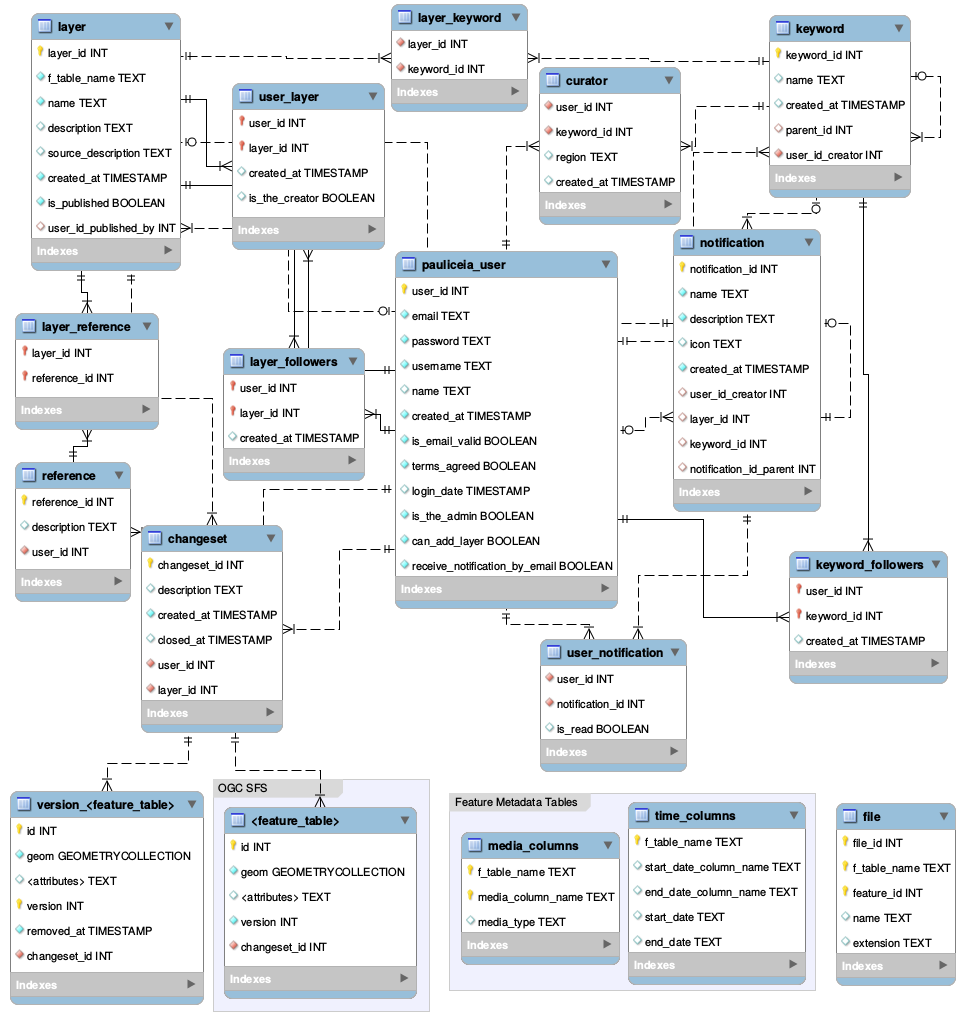
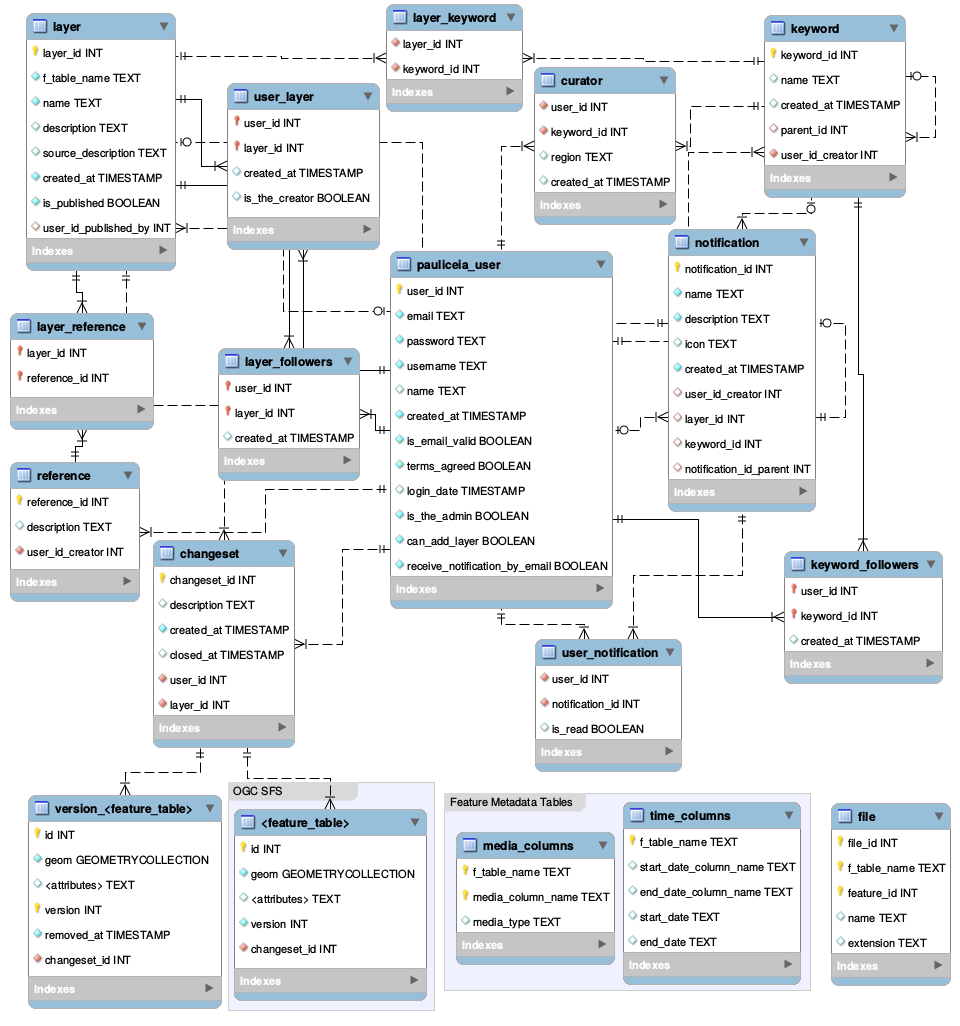
Refactored reference user_id to user_id_creator

diff --git a/tests/test_api_reference.py b/tests/test_api_reference.py
@@ -23,39 +23,39 @@ class TestAPIReference(TestCase):
             'features': [
                 {
                     'type': 'Reference',
-                    'properties': {'user_id': 1001, 'reference_id': 1001, 'description': '@Misc{jorge2017book1,\nauthor = {Jorge},\ntitle = {Book1},\nhowpublished = {\\url{http://www.link.org/}},\nnote = {Accessed on 01/01/2017},\nyear={2017}\n}'}
+                    'properties': {'user_id_creator': 1001, 'reference_id': 1001, 'description': '@Misc{jorge2017book1,\nauthor = {Jorge},\ntitle = {Book1},\nhowpublished = {\\url{http://www.link.org/}},\nnote = {Accessed on 01/01/2017},\nyear={2017}\n}'}
                 },
                 {
                     'type': 'Reference',
-                    'properties': {'user_id': 1001, 'reference_id': 1002, 'description': '@Misc{ana2017article2,\nauthor = {Ana},\ntitle = {Article2},\nhowpublished = {\\url{http://www.myhost.org/}},\nnote = {Accessed on 05/02/2017},\nyear={2017}\n}'}
+                    'properties': {'user_id_creator': 1001, 'reference_id': 1002, 'description': '@Misc{ana2017article2,\nauthor = {Ana},\ntitle = {Article2},\nhowpublished = {\\url{http://www.myhost.org/}},\nnote = {Accessed on 05/02/2017},\nyear={2017}\n}'}
                 },
                 {
                     'type': 'Reference',
-                    'properties': {'user_id': 1001, 'reference_id': 1005, 'description': '@Misc{marco2017articleB,\nauthor = {Marco},\ntitle = {ArticleB},\nhowpublished = {\\url{http://www.link_to_document.org/}},\nnote = {Accessed on 02/02/2017},\nyear={2017}\n}'}
+                    'properties': {'user_id_creator': 1001, 'reference_id': 1005, 'description': '@Misc{marco2017articleB,\nauthor = {Marco},\ntitle = {ArticleB},\nhowpublished = {\\url{http://www.link_to_document.org/}},\nnote = {Accessed on 02/02/2017},\nyear={2017}\n}'}
                 },
                 {
                     'type': 'Reference',
-                    'properties': {'user_id': 1005, 'reference_id': 1010, 'description': '@Misc{marco2017articleC,\nauthor = {Marco},\ntitle = {ArticleC},\nhowpublished = {\\url{http://www.link_to_document.org/}},\nnote = {Accessed on 02/02/2017},\nyear={2017}\n}'}
+                    'properties': {'user_id_creator': 1005, 'reference_id': 1010, 'description': '@Misc{marco2017articleC,\nauthor = {Marco},\ntitle = {ArticleC},\nhowpublished = {\\url{http://www.link_to_document.org/}},\nnote = {Accessed on 02/02/2017},\nyear={2017}\n}'}
                 },
                 {
                     'type': 'Reference',
-                    'properties': {'user_id': 1007, 'reference_id': 1025, 'description': '@Misc{frisina2017bookZ,\nauthor = {Frisina},\ntitle = {BookZ},\nhowpublished = {\\url{http://www.school.com/}},\nnote = {Accessed on 03/04/2017},\nyear={2017}\n}'}
+                    'properties': {'user_id_creator': 1007, 'reference_id': 1025, 'description': '@Misc{frisina2017bookZ,\nauthor = {Frisina},\ntitle = {BookZ},\nhowpublished = {\\url{http://www.school.com/}},\nnote = {Accessed on 03/04/2017},\nyear={2017}\n}'}
                 },
                 {
                     'type': 'Reference',
-                    'properties': {'user_id': 1001, 'reference_id': 1050, 'description': 'BookA'}
+                    'properties': {'user_id_creator': 1001, 'reference_id': 1050, 'description': 'BookA'}
                 },
                 {
                     'type': 'Reference',
-                    'properties': {'user_id': 1002, 'reference_id': 1051, 'description': 'ArticleB'}
+                    'properties': {'user_id_creator': 1002, 'reference_id': 1051, 'description': 'ArticleB'}
                 },
                 {
                     'type': 'Reference',
-                    'properties': {'user_id': 1003, 'reference_id': 1052, 'description': 'ThesisC'}
+                    'properties': {'user_id_creator': 1003, 'reference_id': 1052, 'description': 'ThesisC'}
                 },
                 {
                     'type': 'Reference',
-                    'properties': {'user_id': 1003, 'reference_id': 1053, 'description': 'DissertationD'}
+                    'properties': {'user_id_creator': 1003, 'reference_id': 1053, 'description': 'DissertationD'}
                 }
             ]
         }
@@ -68,7 +68,7 @@ class TestAPIReference(TestCase):
             'features': [
                 {
                     'type': 'Reference',
-                    'properties': {'user_id': 1001, 'reference_id': 1001,
+                    'properties': {'user_id_creator': 1001, 'reference_id': 1001,
                                    'description': '@Misc{jorge2017book1,\nauthor = {Jorge},\ntitle = {Book1},\nhowpublished = {\\url{http://www.link.org/}},\nnote = {Accessed on 01/01/2017},\nyear={2017}\n}'}
                 }
             ]
@@ -76,32 +76,33 @@ class TestAPIReference(TestCase):
 
         self.tester.api_reference(expected, reference_id="1001")
 
-    def test_get_api_reference_return_reference_by_user_id(self):
+    def test_get_api_reference_return_reference_by_user_id_creator(self):
         expected = {
             'type': 'FeatureCollection',
             'features': [
                 {
                     'type': 'Reference',
-                    'properties': {'user_id': 1001, 'reference_id': 1001,
+                    'properties': {'user_id_creator': 1001, 'reference_id': 1001,
                                    'description': '@Misc{jorge2017book1,\nauthor = {Jorge},\ntitle = {Book1},\nhowpublished = {\\url{http://www.link.org/}},\nnote = {Accessed on 01/01/2017},\nyear={2017}\n}'}
                 },
                 {
                     'type': 'Reference',
-                    'properties': {'user_id': 1001, 'reference_id': 1002,
+                    'properties': {'user_id_creator': 1001, 'reference_id': 1002,
                                    'description': '@Misc{ana2017article2,\nauthor = {Ana},\ntitle = {Article2},\nhowpublished = {\\url{http://www.myhost.org/}},\nnote = {Accessed on 05/02/2017},\nyear={2017}\n}'}
                 },
                 {
                     'type': 'Reference',
-                    'properties': {'user_id': 1001, 'reference_id': 1005, 'description': '@Misc{marco2017articleB,\nauthor = {Marco},\ntitle = {ArticleB},\nhowpublished = {\\url{http://www.link_to_document.org/}},\nnote = {Accessed on 02/02/2017},\nyear={2017}\n}'}
+                    'properties': {'user_id_creator': 1001, 'reference_id': 1005, 'description': '@Misc{marco2017articleB,\nauthor = {Marco},\ntitle = {ArticleB},\nhowpublished = {\\url{http://www.link_to_document.org/}},\nnote = {Accessed on 02/02/2017},\nyear={2017}\n}'}
                 },
                 {
                     'type': 'Reference',
-                    'properties': {'user_id': 1001, 'reference_id': 1050, 'description': 'BookA'}
+                    'properties': {'user_id_creator': 1001, 'reference_id': 1050, 'description': 'BookA'}
                 }
             ]
         }
 
-        self.tester.api_reference(expected, user_id="1001")
+        self.tester.api_reference(expected, user_id_creator="1001")
+
 
     def test_get_api_reference_return_reference_by_description(self):
         expected = {
@@ -109,11 +110,11 @@ class TestAPIReference(TestCase):
             'features': [
                 {
                     'type': 'Reference',
-                    'properties': {'user_id': 1001, 'reference_id': 1005, 'description': '@Misc{marco2017articleB,\nauthor = {Marco},\ntitle = {ArticleB},\nhowpublished = {\\url{http://www.link_to_document.org/}},\nnote = {Accessed on 02/02/2017},\nyear={2017}\n}'}
+                    'properties': {'user_id_creator': 1001, 'reference_id': 1005, 'description': '@Misc{marco2017articleB,\nauthor = {Marco},\ntitle = {ArticleB},\nhowpublished = {\\url{http://www.link_to_document.org/}},\nnote = {Accessed on 02/02/2017},\nyear={2017}\n}'}
                 },
                 {
                     'type': 'Reference',
-                    'properties': {'user_id': 1005, 'reference_id': 1010,
+                    'properties': {'user_id_creator': 1005, 'reference_id': 1010,
                                    'description': '@Misc{marco2017articleC,\nauthor = {Marco},\ntitle = {ArticleC},\nhowpublished = {\\url{http://www.link_to_document.org/}},\nnote = {Accessed on 02/02/2017},\nyear={2017}\n}'}
                 }
             ]
@@ -162,21 +163,21 @@ class TestAPIReferenceErrors(TestCase):
         self.tester.api_reference_error_400_bad_request(reference_id="-1")
         self.tester.api_reference_error_400_bad_request(reference_id="0")
 
-        self.tester.api_reference_error_400_bad_request(user_id="abc")
-        self.tester.api_reference_error_400_bad_request(user_id=0)
-        self.tester.api_reference_error_400_bad_request(user_id=-1)
-        self.tester.api_reference_error_400_bad_request(user_id="-1")
-        self.tester.api_reference_error_400_bad_request(user_id="0")
+        self.tester.api_reference_error_400_bad_request(user_id_creator="abc")
+        self.tester.api_reference_error_400_bad_request(user_id_creator=0)
+        self.tester.api_reference_error_400_bad_request(user_id_creator=-1)
+        self.tester.api_reference_error_400_bad_request(user_id_creator="-1")
+        self.tester.api_reference_error_400_bad_request(user_id_creator="0")
 
     def test_get_api_reference_error_404_not_found(self):
         self.tester.api_reference_error_404_not_found(reference_id="999")
         self.tester.api_reference_error_404_not_found(reference_id="998")
 
-        self.tester.api_reference_error_404_not_found(user_id="999")
-        self.tester.api_reference_error_404_not_found(user_id="998")
+        self.tester.api_reference_error_404_not_found(user_id_creator="999")
+        self.tester.api_reference_error_404_not_found(user_id_creator="998")
 
     # reference errors - create
-    
+
     def test_put_api_reference_create_error_400_bad_request_attribute_already_exist(self):
         # DO LOGIN
         self.tester.auth_login("rodrigo@admin.com", "rodrigo")

diff --git a/models/db_connection.py b/models/db_connection.py
@@ -950,13 +950,13 @@ class PGSQLConnection:
     # REFERENCE
     ################################################################################
 
-    def get_references(self, reference_id=None, user_id=None, description=None):
+    def get_references(self, reference_id=None, user_id_creator=None, description=None):
         # the id have to be a int
-        if is_a_invalid_id(reference_id) or is_a_invalid_id(user_id):
+        if is_a_invalid_id(reference_id) or is_a_invalid_id(user_id_creator):
             raise HTTPError(400, "Invalid parameter.")
 
         subquery = get_subquery_reference_table(reference_id=reference_id, description=description,
-                                                user_id=user_id)
+                                                user_id_creator=user_id_creator)
 
         # CREATE THE QUERY AND EXECUTE IT
         query_text = """
@@ -965,9 +965,9 @@ class PGSQLConnection:
                 'features',   jsonb_agg(jsonb_build_object(
                     'type',       'Reference',
                     'properties', json_build_object(
-                        'reference_id',   reference_id,
-                        'description',    description,
-                        'user_id',        user_id
+                        'reference_id',     reference_id,
+                        'description',      description,
+                        'user_id_creator',  user_id_creator
                     )
                 ))
             ) AS row_to_json
@@ -999,7 +999,7 @@ class PGSQLConnection:
         p = properties
 
         query_text = """
-            INSERT INTO reference (description, user_id)
+            INSERT INTO reference (description, user_id_creator)
             VALUES ('{0}', {1}) RETURNING reference_id;
         """.format(p["description"], p["user_id"])
 

diff --git a/models/util/reference.py b/models/util/reference.py
@@ -10,8 +10,8 @@ def get_subquery_reference_table(**kwargs):
     if "reference_id" in kwargs and kwargs["reference_id"] is not None:
         conditions_of_where.append("reference_id = {0}".format(kwargs["reference_id"]))
 
-    if "user_id" in kwargs and kwargs["user_id"] is not None:
-        conditions_of_where.append("user_id = {0}".format(kwargs["user_id"]))
+    if "user_id_creator" in kwargs and kwargs["user_id_creator"] is not None:
+        conditions_of_where.append("user_id_creator = {0}".format(kwargs["user_id_creator"]))
 
     if "description" in kwargs and kwargs["description"] is not None:
         conditions_of_where.append("unaccent(LOWER(description)) LIKE '%' || unaccent(LOWER('{0}')) || '%'".format(kwargs["description"]))

diff --git a/controllers/base.py b/controllers/base.py
@@ -548,7 +548,7 @@ class BaseHandlerReference(BaseHandlerTemplateMethod):
         references = self.PGSQLConn.get_references(reference_id=reference_id)
 
         # if the current_user_id is the creator of the reference, so ok...
-        if references["features"][0]["properties"]['user_id'] == current_user_id:
+        if references["features"][0]["properties"]['user_id_creator'] == current_user_id:
             return
 
         # ... else, raise an exception.

diff --git a/tests/run_tests.py b/tests/run_tests.py
@@ -17,7 +17,7 @@ if __name__ == '__main__':
 
     # Get all the files on current folder that has .py in the final
     tests = TestLoader().discover(ROOT_PATH, "*.py")
-    # tests = TestLoader().discover(ROOT_PATH, "test_api_user.py")
+    # tests = TestLoader().discover(ROOT_PATH, "test_api_reference.py")
     # PS: the numbers in test files means the order to execute
 
     # Run the tests - verbosity=2 increases the level of detail of output
